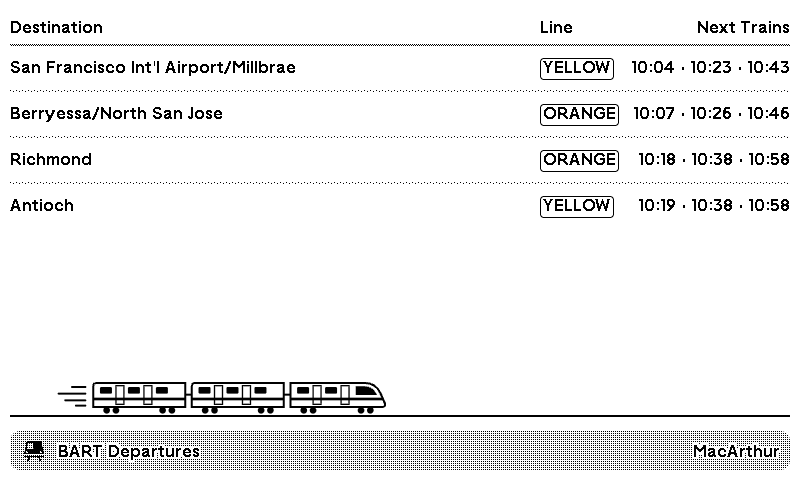
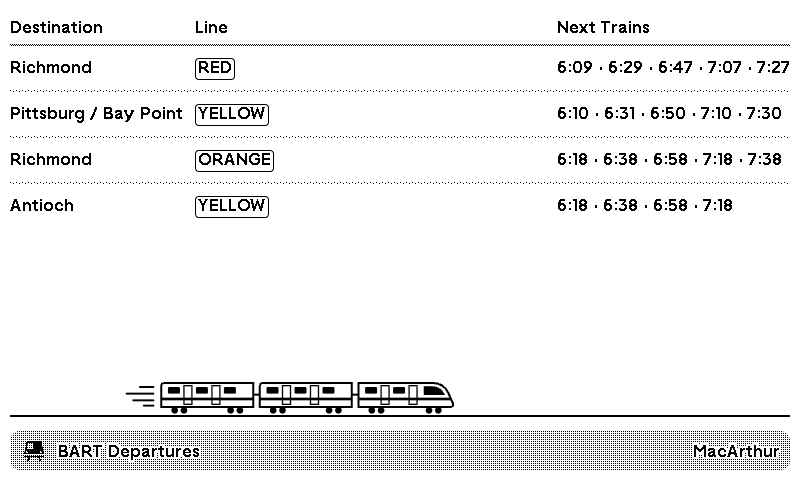
Grouped layout: up to 5 times, right-anchored Next Trains column

diff --git a/src/transform.js b/src/transform.js
@@ -1,5 +1,5 @@
 function transform(input) {
-  const LIST_LIMIT = 25;
+  const LIST_LIMIT = 50;
 
   const visits =
     input?.ServiceDelivery?.StopMonitoringDelivery?.MonitoredStopVisit ?? [];

diff --git a/README.md b/README.md
@@ -11,7 +11,7 @@ Settings let you tailor the display:
 
 - **Direction:** show all trains, or only northbound or southbound.
 - **Line(s):** show only the lines you ride, such as Red and Yellow, or keep "All lines."
-- **Layout:** list every departure in time order, or group by destination to see the next three trains for each route on a single row, similar to BART's platform signs.
+- **Layout:** list every departure in time order, or group by destination to see the next 3–5 trains for each route on a single row (as many as fit), similar to BART's platform signs.
 - **Text size:** Small, Medium or Large. Larger text is easier to read from across the room and shows fewer trains.
 
 The plugin works in full, half and quadrant layouts, so it fits alongside your other plugins in a mashup.
